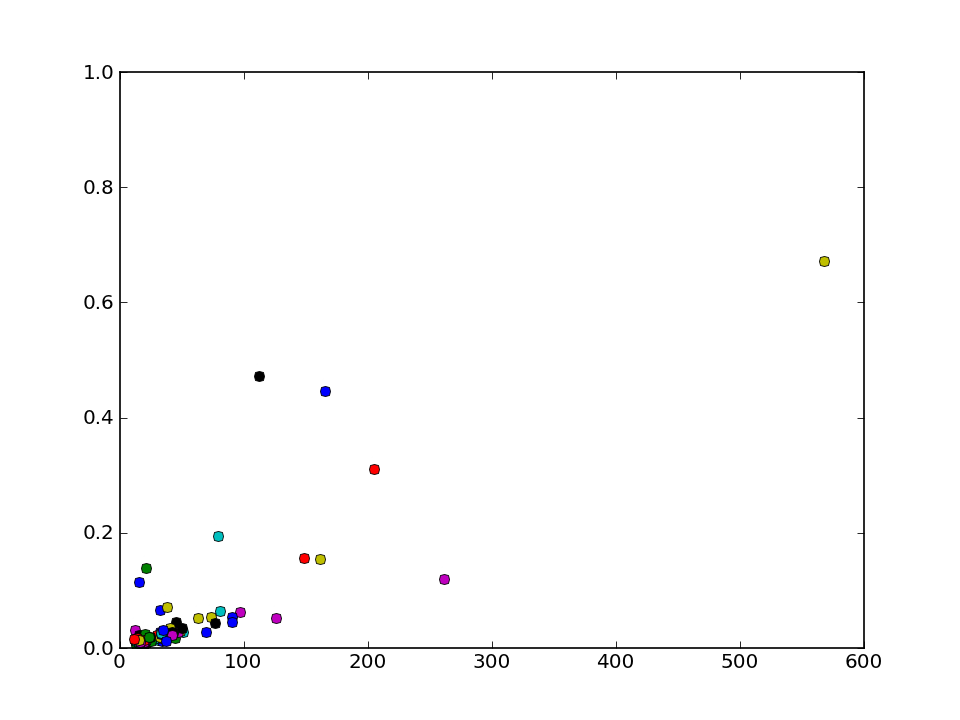
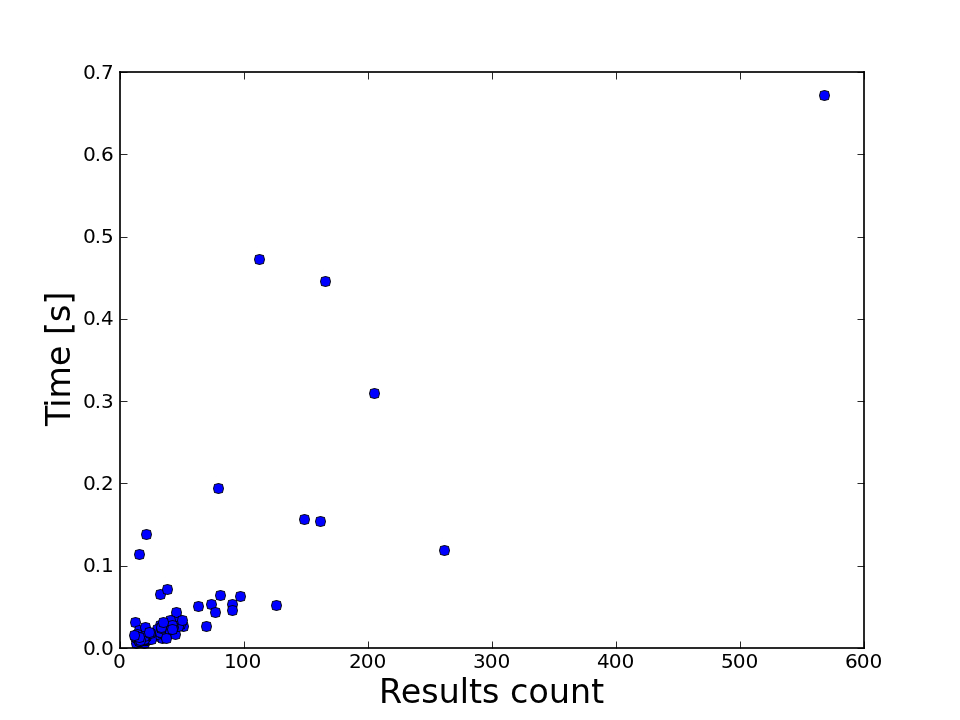
ticket:21 modifications to figures

diff --git a/cghub_api/utils/profile/plot.py b/cghub_api/utils/profile/plot.py
@@ -7,13 +7,18 @@ def plot_profiler_stats(ifilename, ofilename):
     with open(ifilename, 'r') as ifile:
         statistics = csv.reader(ifile)
         statistics.next()
-        figure = plt.figure()
-        ax = figure.add_subplot(111)
+        count_ar = []
+        time_ar = []
         for row in statistics:
             query, count, time = row
-            ax.plot(int(count), float(time), 'o')
-            ax.plot([1, 1], label=query)
-        plt.savefig(ofilename, dpi=120)
+            count_ar.append(int(count))
+            time_ar.append(float(time))
+    figure = plt.figure()
+    ax = figure.add_subplot(111)
+    ax.plot(count_ar, time_ar, 'o')
+    plt.ylabel('Time [s]', fontsize=20)
+    plt.xlabel('Results count', fontsize=20)
+    plt.savefig(ofilename, dpi=120)
 
 if __name__ == '__main__':
     if len(sys.argv) > 2:
